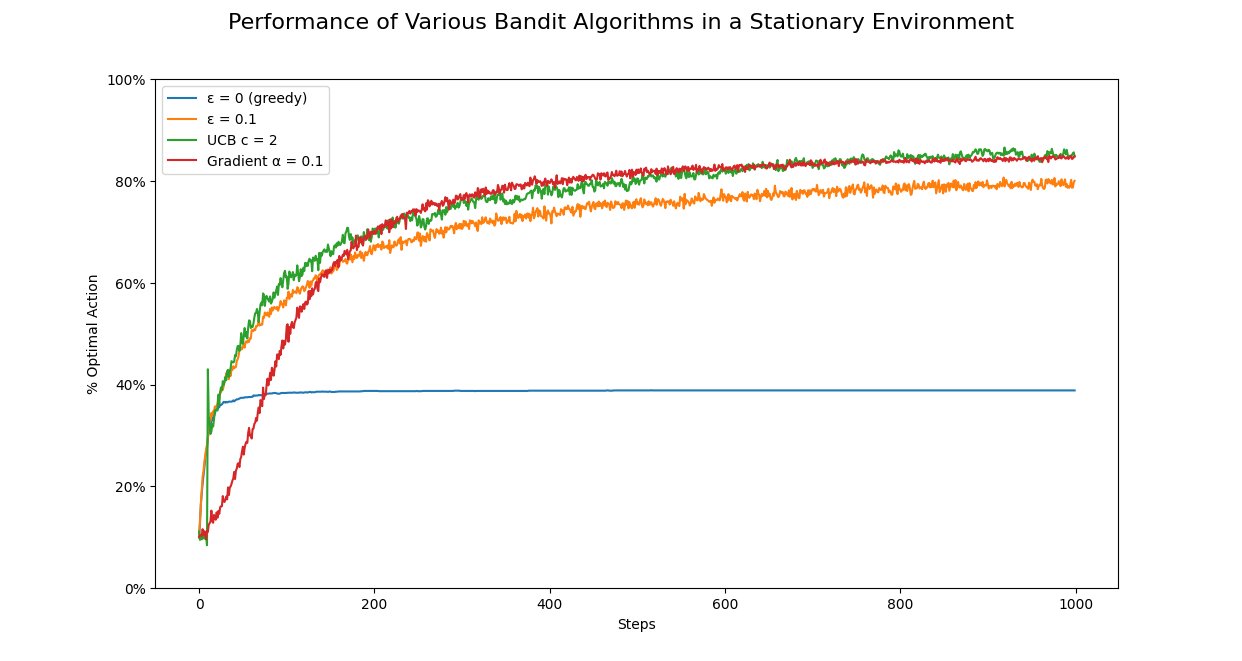
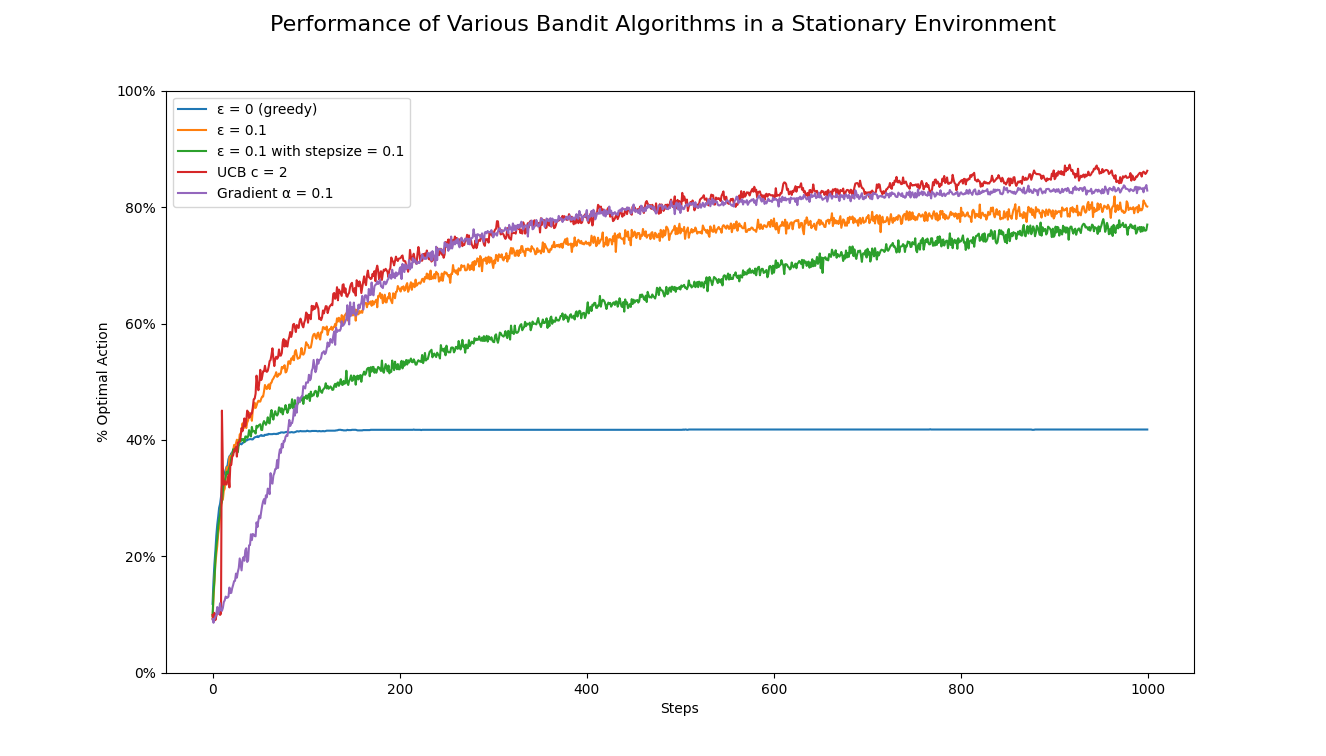
fix figure

diff --git a/bandit_analysis.py b/bandit_analysis.py
@@ -53,7 +53,7 @@ def run_experiment(agents: list[Agent], environment, steps=1000):
 
 
 def graph_results(average_reward, optimal_pulls, title, legend, save_loc):
-    """Graph results based on Figure 2.2 of the textbook
+    """Graph results: average reward and % optimal action
 
     Args:
         average_reward (list[numpy.ndarray]): list of xy plots for number of steps vs average reward
@@ -73,7 +73,7 @@ def graph_results(average_reward, optimal_pulls, title, legend, save_loc):
     fig.suptitle(title, fontsize=16)
 
     if average_reward:
-        # Graph 2.2: Average Reward
+        # Average Reward
         for line in average_reward:
             ax1.plot(line)
         ax1.set_ylabel("Average Reward")
@@ -82,7 +82,7 @@ def graph_results(average_reward, optimal_pulls, title, legend, save_loc):
         ax1.legend(legend)
 
     if optimal_pulls:
-        # Graph 2.2: % Optimal Action
+        # % Optimal Action
         for line in optimal_pulls:
             ax2.plot(line)
 
@@ -153,9 +153,10 @@ def compare_stationary_all():
     environment = Environment()
     agents = [
         Agent(environment),  # pure greedy
-        Agent(environment, epsilon=0.1),  # egreedy with epsilon=0.1
+        Agent(environment, epsilon=0.1),  # egreedy with ε=0.1
+        Agent(environment, epsilon=0.1, stepsize=0.1),  # egreedy with constant stepsize
         Agent(environment, ucb_param=2),  # ucb with c=2
-        Agent(environment, stepsize=0.1, gradient=True)  # gradient with alpha=0.1
+        Agent(environment, stepsize=0.1, gradient=True)  # gradient w α=0.1, no need for baseline bc stationary mean = 0
     ]
     # run the experiment!!
     print("Running Experiment...")
@@ -221,15 +222,11 @@ def compare_ns_stepsizes():
     graph_results(average_reward, optimal_pulls, title, legend, save_loc)
 
 
-def main():
-    compare_stationary_eps()
-    # compare_envs()
-    # compare_stationary_ucb()
-    # compare_ns_stepsizes()
-    # compare_stationary_gradients()
-    # compare_stationary_all()
-    # compare_nonstationary_all()
+compare_stationary_eps()
+# compare_envs()
+# compare_stationary_ucb()
+# compare_ns_stepsizes()
+# compare_stationary_gradients()
+# compare_stationary_all()
+# compare_nonstationary_all()
 
-
-if __name__ == "__main__":
-    main()
